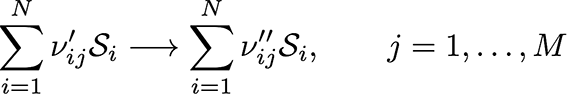
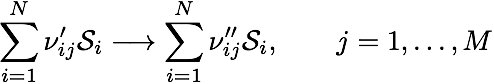
Changes in README.md

diff --git a/README.md b/README.md
@@ -13,10 +13,6 @@ Group 9: Camilo Fosco, Baptiste Lemaire, Jiejun Lu, Yiqi Xie
 
 This project aims to calculate reaction coefficients for a set of M chemical reactions involving N species. The reactions are of the form:  
 
-![Equation1](/Equation1.png "Equation1"){width:200px;height:20px;}
-
-![Equation1](/Equation1.png "Equation1"){width:200px;}
-![Equation1](/Equation1.png "Equation1"){width:200px}
 
 ![Eq1](/Eq1.png "Eq1")
 
